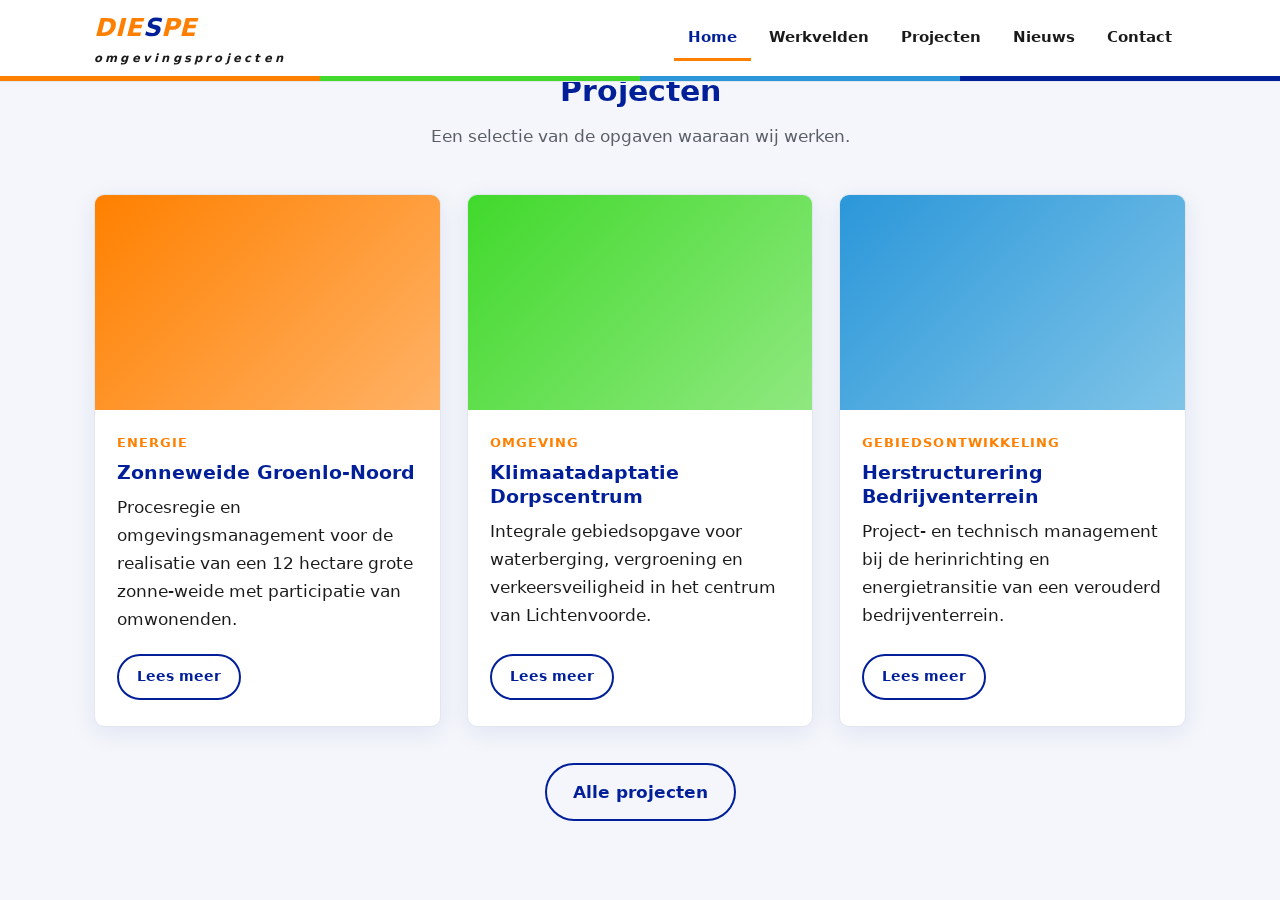
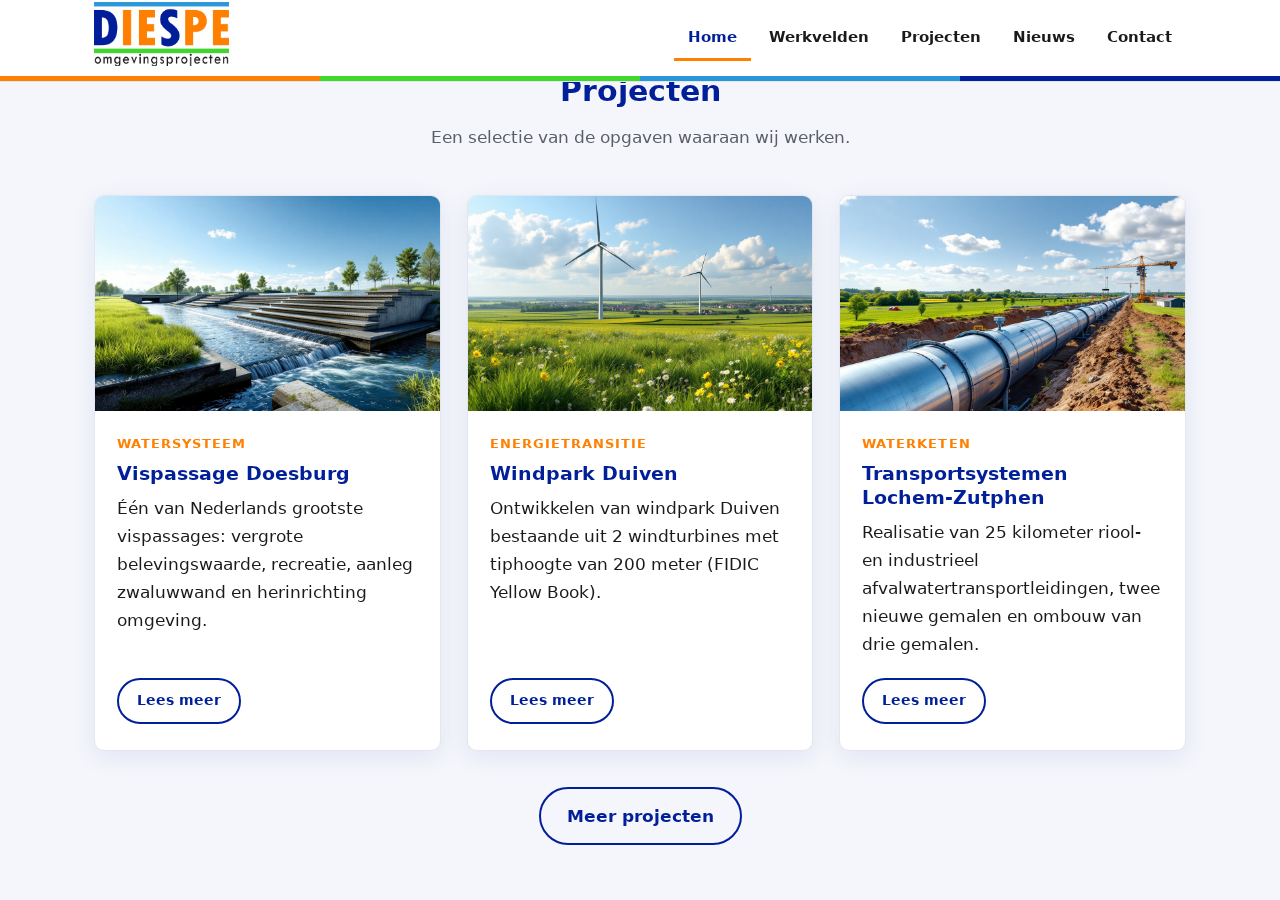
Projecten-sectie: drie portfolio-showcaseprojecten met afbeeldingen en knop Meer projecten

diff --git a/preview/index.html b/preview/index.html
@@ -112,35 +112,35 @@
     <p class="section-intro">Een selectie van de opgaven waaraan wij werken.</p>
     <div class="project-grid">
       <article class="project-card">
-        <div class="project-thumb" style="background:linear-gradient(135deg,#ff8000,#ffb266)"></div>
+        <div class="project-thumb"><img src="vispassage-doesburg.jpg" alt="Vispassage Doesburg"></div>
         <div class="project-body">
-          <p class="project-meta">Energie</p>
-          <h3><a href="#">Zonneweide Groenlo-Noord</a></h3>
-          <p>Procesregie en omgevingsmanagement voor de realisatie van een 12 hectare grote zonne-weide met participatie van omwonenden.</p>
+          <p class="project-meta">Watersysteem</p>
+          <h3><a href="#">Vispassage Doesburg</a></h3>
+          <p>&Eacute;&eacute;n van Nederlands grootste vispassages: vergrote belevingswaarde, recreatie, aanleg zwaluwwand en herinrichting omgeving.</p>
           <a class="btn btn--outline" href="#">Lees meer</a>
         </div>
       </article>
       <article class="project-card">
-        <div class="project-thumb" style="background:linear-gradient(135deg,#41d92c,#8fe87f)"></div>
+        <div class="project-thumb"><img src="windpark-duiven.jpg" alt="Windpark Duiven"></div>
         <div class="project-body">
-          <p class="project-meta">Omgeving</p>
-          <h3><a href="#">Klimaatadaptatie Dorpscentrum</a></h3>
-          <p>Integrale gebiedsopgave voor waterberging, vergroening en verkeersveiligheid in het centrum van Lichtenvoorde.</p>
+          <p class="project-meta">Energietransitie</p>
+          <h3><a href="#">Windpark Duiven</a></h3>
+          <p>Ontwikkelen van windpark Duiven bestaande uit 2 windturbines met tiphoogte van 200 meter (FIDIC Yellow Book).</p>
           <a class="btn btn--outline" href="#">Lees meer</a>
         </div>
       </article>
       <article class="project-card">
-        <div class="project-thumb" style="background:linear-gradient(135deg,#2b97d9,#7fc4e8)"></div>
+        <div class="project-thumb"><img src="transportsystemen-lochem-zutphen.jpg" alt="Transportsystemen Lochem-Zutphen"></div>
         <div class="project-body">
-          <p class="project-meta">Gebiedsontwikkeling</p>
-          <h3><a href="#">Herstructurering Bedrijventerrein</a></h3>
-          <p>Project- en technisch management bij de herinrichting en energietransitie van een verouderd bedrijventerrein.</p>
+          <p class="project-meta">Waterketen</p>
+          <h3><a href="#">Transportsystemen Lochem-Zutphen</a></h3>
+          <p>Realisatie van 25 kilometer riool- en industrieel afvalwatertransportleidingen, twee nieuwe gemalen en ombouw van drie gemalen.</p>
           <a class="btn btn--outline" href="#">Lees meer</a>
         </div>
       </article>
     </div>
     <p style="text-align:center; margin-top:36px;">
-      <a class="btn btn--outline" href="#">Alle projecten</a>
+      <a class="btn btn--outline" href="#">Meer projecten</a>
     </p>
   </div>
 </section>

diff --git a/front-page.php b/front-page.php
@@ -105,24 +105,50 @@ $over_tekst2 = diespe_home_text( 'over_tekst2', __( 'Met focus op duurzame en ef
 		<p class="section-intro"><?php esc_html_e( 'Een selectie van de opgaven waaraan wij werken.', 'diespe' ); ?></p>
 
 		<?php
-		$projects = new WP_Query( array(
+		$showcase = new WP_Query( array(
 			'post_type'      => 'diespe_project',
 			'posts_per_page' => 3,
+			'name'           => 'vispassage-doesburg',
 		) );
 
-		if ( $projects->have_posts() ) :
+		$showcase_ids = array();
+		if ( $showcase->have_posts() ) {
+			$showcase_ids[] = $showcase->posts[0]->ID;
+		}
+		foreach ( array( 'windpark-duiven-te-duiven', 'transportsystemen-lochem-zutphen' ) as $slug ) {
+			$proj = get_page_by_path( $slug, OBJECT, 'diespe_project' );
+			if ( $proj ) {
+				$showcase_ids[] = $proj->ID;
+			}
+		}
+
+		if ( $showcase_ids ) {
+			$showcase = new WP_Query( array(
+				'post_type'      => 'diespe_project',
+				'posts_per_page' => 3,
+				'post__in'       => $showcase_ids,
+				'orderby'        => 'post__in',
+			) );
+		} else {
+			$showcase = new WP_Query( array(
+				'post_type'      => 'diespe_project',
+				'posts_per_page' => 3,
+			) );
+		}
+
+		if ( $showcase->have_posts() ) :
 			?>
 			<div class="project-grid">
 				<?php
-				while ( $projects->have_posts() ) :
-					$projects->the_post();
+				while ( $showcase->have_posts() ) :
+					$showcase->the_post();
 					get_template_part( 'template-parts/project', 'card' );
 				endwhile;
 				wp_reset_postdata();
 				?>
 			</div>
 			<p style="text-align:center; margin-top:36px;">
-				<a class="btn btn--outline" href="<?php echo esc_url( get_post_type_archive_link( 'diespe_project' ) ); ?>"><?php esc_html_e( 'Alle projecten', 'diespe' ); ?></a>
+				<a class="btn btn--outline" href="<?php echo esc_url( get_post_type_archive_link( 'diespe_project' ) ); ?>"><?php esc_html_e( 'Meer projecten', 'diespe' ); ?></a>
 			</p>
 		<?php else : ?>
 			<p style="text-align:center;"><?php esc_html_e( 'Nog geen projecten gepubliceerd.', 'diespe' ); ?></p>
